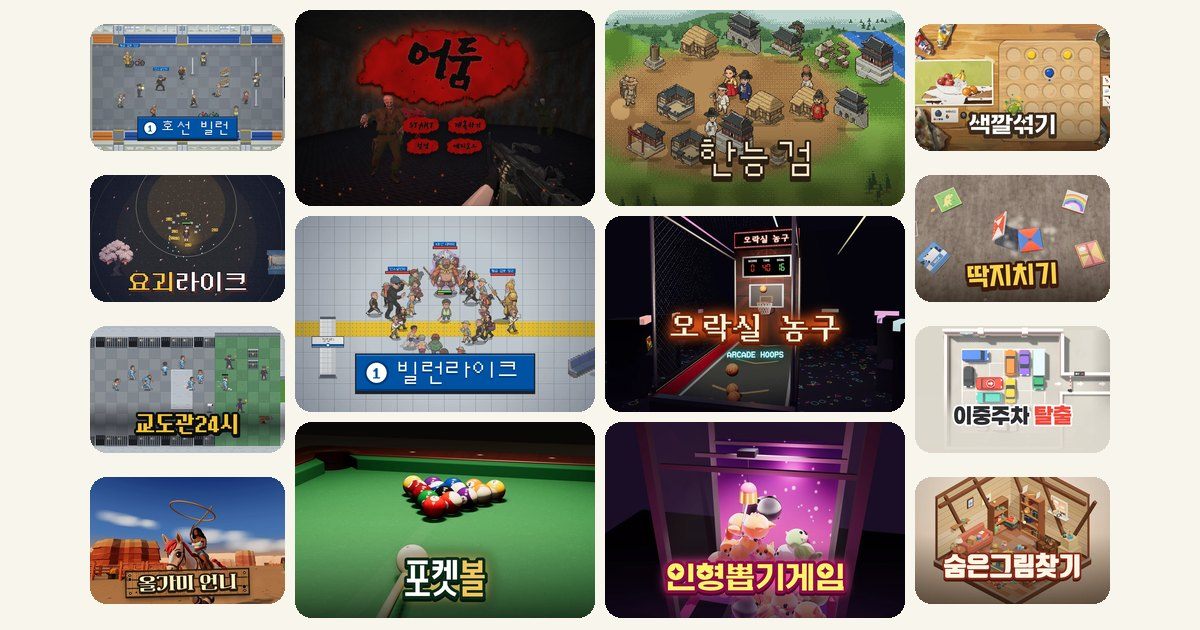
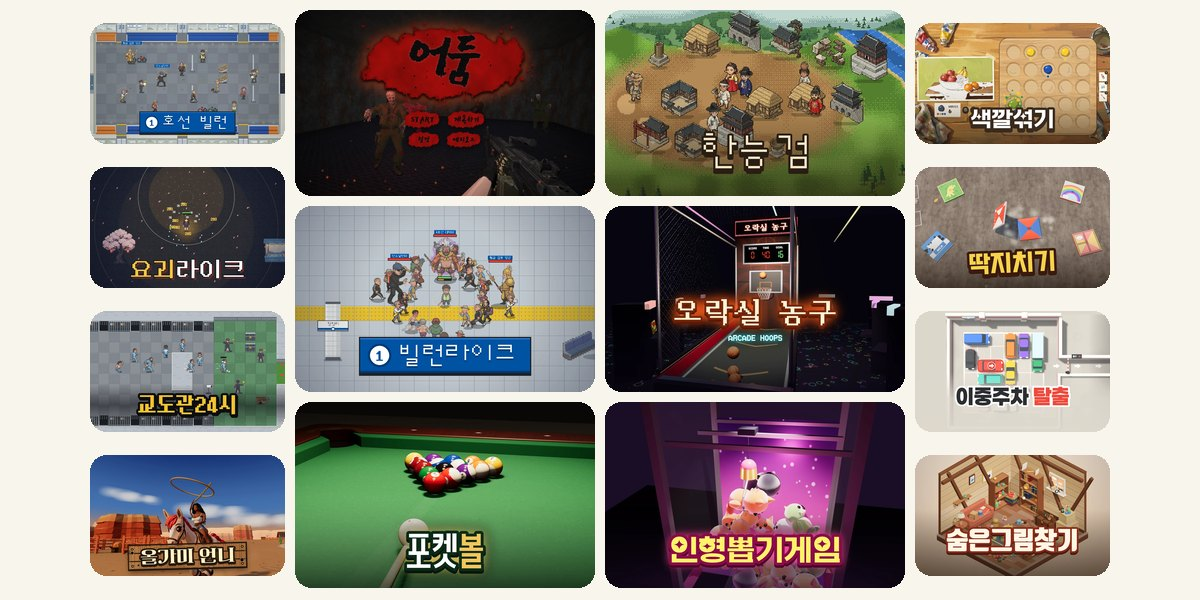
대문 공유 그림 2:1(1200x600): 카톡이 빌런라이크 한 칸만 잘라 보이던 것, og:image ?v=36·높이 600(대문·GAMES 한·영)

diff --git a/games/index.html b/games/index.html
@@ -24,9 +24,9 @@
 <meta property="og:title" content="무료게임 사이트 오름게임즈 — 설치 없이 바로 하는 웹게임">
 <meta property="og:description" content="무설치게임 100개. 설치없는게임이라 링크 하나로 바로 시작합니다. 보드·스포츠·방치형·공포게임까지 폰과 PC 모두.">
 <meta property="og:url" content="https://oreumgames.com/games/">
-<meta property="og:image" content="https://oreumgames.com/assets/og-image.jpg?v=35">
+<meta property="og:image" content="https://oreumgames.com/assets/og-image.jpg?v=36">
 <meta property="og:image:width" content="1200">
-<meta property="og:image:height" content="630">
+<meta property="og:image:height" content="600">
 <meta property="og:locale" content="ko_KR">
 <meta name="twitter:card" content="summary_large_image">
 

diff --git a/en/index.html b/en/index.html
@@ -21,9 +21,9 @@
 <meta property="og:title" content="Oreum Games — free browser games, no install">
 <meta property="og:description" content="No install — one link and you are in. No sign-up — saves stay in your browser. Free browser games from Oreum Games, an indie game factory.">
 <meta property="og:url" content="https://oreumgames.com/en/">
-<meta property="og:image" content="https://oreumgames.com/assets/og-image.jpg?v=35">
+<meta property="og:image" content="https://oreumgames.com/assets/og-image.jpg?v=36">
 <meta property="og:image:width" content="1200">
-<meta property="og:image:height" content="630">
+<meta property="og:image:height" content="600">
 <meta property="og:locale" content="en_US">
 <meta name="twitter:card" content="summary_large_image">
 

diff --git a/index.html b/index.html
@@ -24,9 +24,9 @@
 <meta property="og:title" content="오름게임즈 — 설치 없이 바로 하는 무료 웹게임">
 <meta property="og:description" content="오름게임즈 — 설치도 회원가입도 없이 브라우저에서 바로 하는 무료 웹게임과 미니게임.">
 <meta property="og:url" content="https://oreumgames.com/">
-<meta property="og:image" content="https://oreumgames.com/assets/og-image.jpg?v=35">
+<meta property="og:image" content="https://oreumgames.com/assets/og-image.jpg?v=36">
 <meta property="og:image:width" content="1200">
-<meta property="og:image:height" content="630">
+<meta property="og:image:height" content="600">
 <meta property="og:locale" content="ko_KR">
 <meta name="twitter:card" content="summary_large_image">
 

diff --git a/en/games/index.html b/en/games/index.html
@@ -21,9 +21,9 @@
 <meta property="og:title" content="Free browser games & mini games | Oreum Games">
 <meta property="og:description" content="100 free web games that start in your browser with no install. Board games, sports, idle and horror, on phone and PC.">
 <meta property="og:url" content="https://oreumgames.com/en/games/">
-<meta property="og:image" content="https://oreumgames.com/assets/og-image.jpg?v=35">
+<meta property="og:image" content="https://oreumgames.com/assets/og-image.jpg?v=36">
 <meta property="og:image:width" content="1200">
-<meta property="og:image:height" content="630">
+<meta property="og:image:height" content="600">
 <meta property="og:locale" content="en_US">
 <meta name="twitter:card" content="summary_large_image">
 

diff --git a/make-og.py b/make-og.py
@@ -7,7 +7,7 @@
 
 games/index.html 의 카드 순서에서 최신 게임을 골라 3×2 모음 그림을 굽습니다.
   · 가운데: GAMES 칸 앞 3장 + 플래시 칸 앞 3장 / 양옆: 그다음 4장씩
-  · 결과: assets/og-image.jpg (1200×630) — 대문·GAMES 허브(한·영)가 이 파일 하나를 씁니다
+  · 결과: assets/og-image.jpg (1200×600) — 대문·GAMES 허브(한·영)가 이 파일 하나를 씁니다
 새 게임을 올리고 카드를 앞에 넣은 뒤 이걸 한 번 돌리면 카카오톡·디스코드 미리보기가 최신 게임으로 바뀝니다.
 (카카오톡은 주소별로 미리보기를 오래 기억하므로, 안 바뀌면 developers.kakao.com/tool/clear/og 에서 초기화)
 
@@ -18,7 +18,7 @@ from PIL import Image, ImageDraw
 
 ROOT = os.path.dirname(os.path.abspath(__file__))
 OUT = os.path.join(ROOT, "assets", "og-image.jpg")
-W, H = 1200, 630
+W, H = 1200, 600   # 사장님 2026-10-21 카톡이 1200×630 을 빌런라이크 한 칸만 잘라 보여 줌 → 카톡이 자르지 않는 2:1 로
 
 
 def cards_after(html, marker, n):
